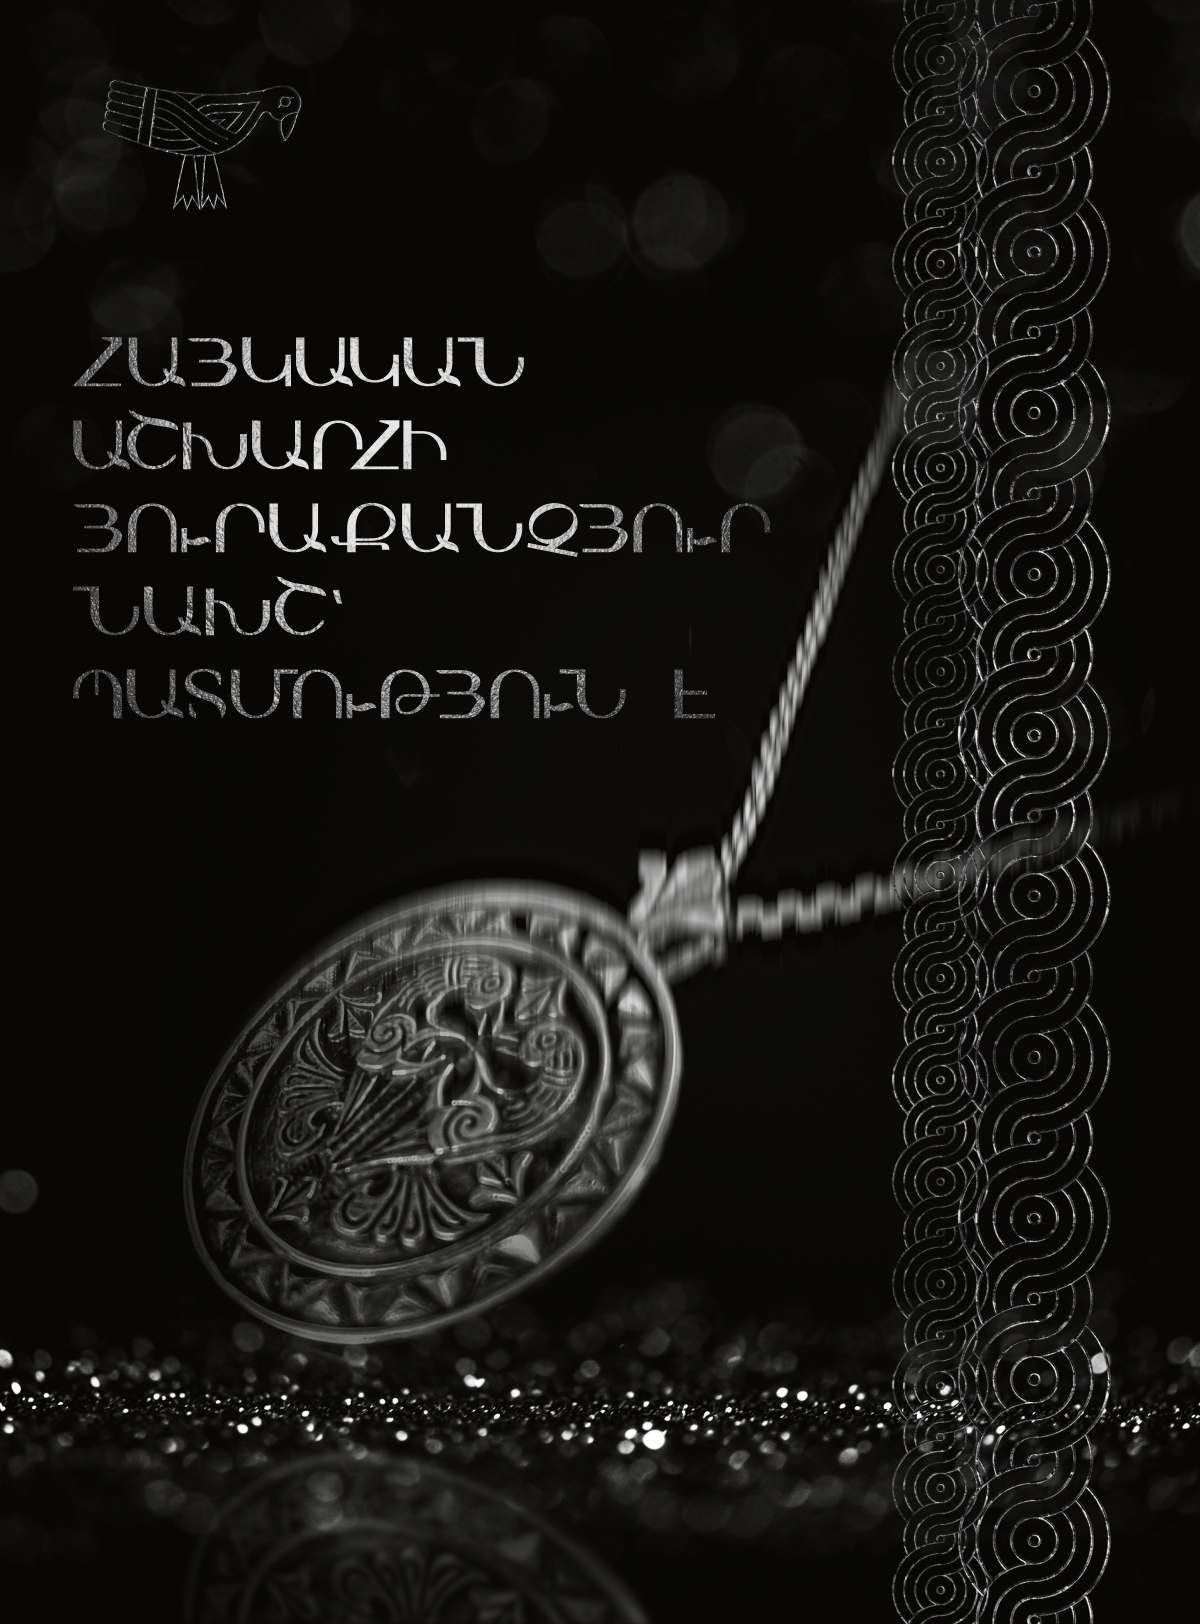
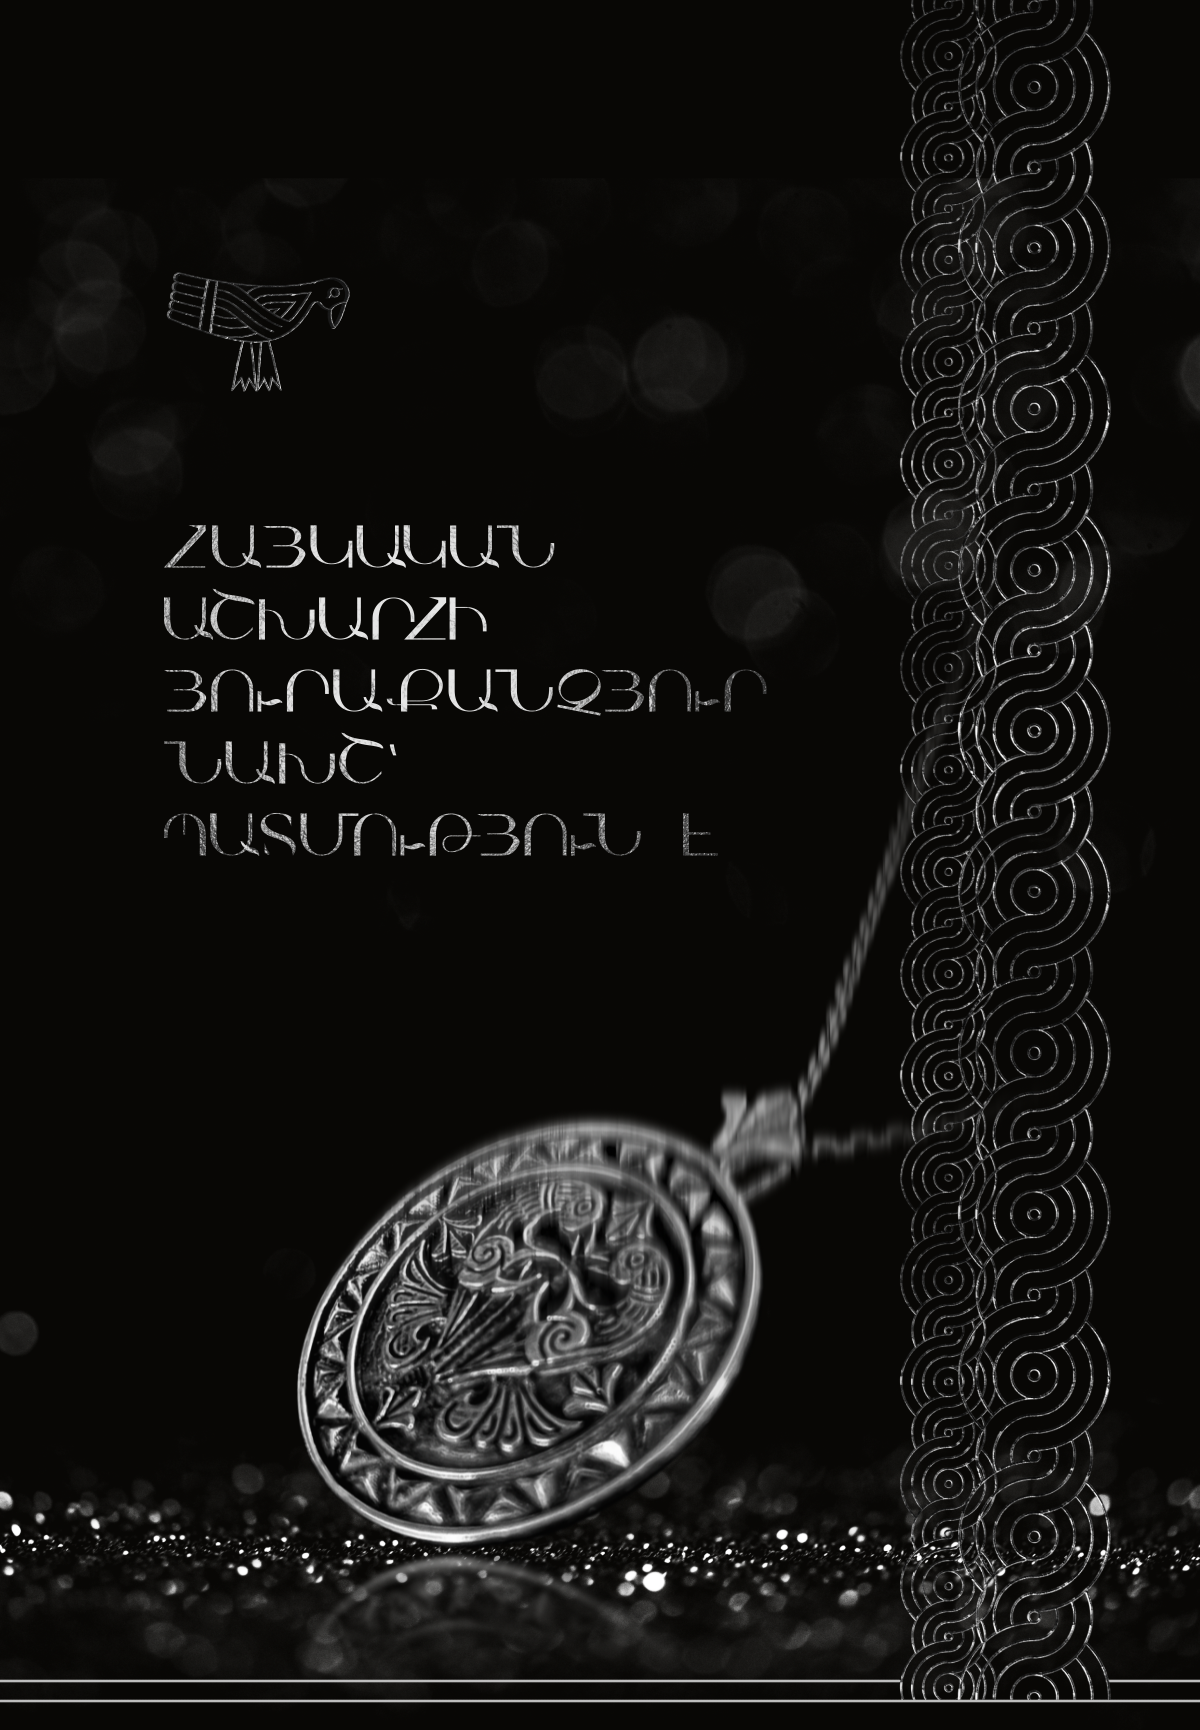
Use supplied responsive home hero artwork

diff --git a/src/app/App.tsx b/src/app/App.tsx
@@ -92,6 +92,8 @@ const DRAKHT_ASSETS = {
   logoMobile: `${PUBLIC_BASE}drakht/logo-mobile.png`,
   heroWeb: `${PUBLIC_BASE}drakht/hero-web.png`,
   heroMobile: `${PUBLIC_BASE}drakht/hero-mobile.png`,
+  heroWebLight: `${PUBLIC_BASE}drakht/hero-web-light.png`,
+  heroMobileLight: `${PUBLIC_BASE}drakht/hero-mobile-light.png`,
   birdsLineWeb: `${PUBLIC_BASE}drakht/birds-line-web.png`,
   birdsLineMobile: `${PUBLIC_BASE}drakht/birds-line-mobile.png`,
   bird: `${PUBLIC_BASE}drakht/bird.png`,
@@ -638,42 +640,50 @@ function Nav({
 
 // ─── HERO SECTION ─────────────────────────────────────────────────────────────
 
-function HeroSection({ onNavigate }: { onNavigate: (p: Page) => void }) {
+function HeroSection({ onNavigate, themeMode }: { onNavigate: (p: Page) => void; themeMode: ThemeMode }) {
   const [loaded, setLoaded] = useState(false);
   useEffect(() => { const t = setTimeout(() => setLoaded(true), 100); return () => clearTimeout(t); }, []);
 
   return (
-    <section className="relative h-[calc(100svh-54px)] min-h-[540px] w-full overflow-hidden border-b border-white/15 bg-black md:h-auto md:min-h-[calc(100vh-54px)]">
-      <picture className="absolute inset-0">
+    <section className={`relative h-[calc(100svh-54px)] min-h-[540px] w-full overflow-hidden border-b border-border md:h-auto md:min-h-[calc(100vh-54px)] ${themeMode === "dark" ? "bg-black" : "bg-white"}`}>
+      <picture className={`absolute inset-0 ${themeMode === "dark" ? "block" : "hidden"}`}>
         <source media="(max-width: 767px)" srcSet={DRAKHT_ASSETS.heroMobile} />
         <img
           src={DRAKHT_ASSETS.heroWeb}
-          alt="Դրախտը՝ հայկական զարդատեսակների գլխավոր էջ"
+          alt="Դրախտը՝ հայկական զարդատեսակների գլխավոր էջ, մուգ տարբերակ"
           className="h-full w-full object-cover object-center opacity-95"
         />
       </picture>
+      <picture className={`absolute inset-0 ${themeMode === "light" ? "block" : "hidden"}`}>
+        <source media="(max-width: 767px)" srcSet={DRAKHT_ASSETS.heroMobileLight} />
+        <img
+          src={DRAKHT_ASSETS.heroWebLight}
+          alt="Դրախտը՝ հայկական զարդատեսակների գլխավոր էջ, բաց տարբերակ"
+          className="h-full w-full object-cover object-center"
+        />
+      </picture>
 
-      <div className="absolute inset-0 bg-[radial-gradient(circle_at_24%_32%,rgba(255,255,255,0.08),transparent_26%),linear-gradient(90deg,rgba(0,0,0,0.26),transparent_50%,rgba(0,0,0,0.18))]" />
+      {themeMode === "dark" && <div className="absolute inset-0 bg-[radial-gradient(circle_at_24%_32%,rgba(255,255,255,0.05),transparent_26%)]" />}
 
       {/* Actions are live HTML over the supplied Drakht hero artwork. */}
-      <div className="absolute left-[7.5%] bottom-[11%] z-10 md:bottom-[11.5%]">
+      <div className="absolute left-[19%] top-[54%] z-10 w-[52vw] max-w-[260px] md:left-[10.5%] md:top-auto md:bottom-[20%] md:w-auto md:max-w-none">
         <div
           className="transition-all duration-1000"
           style={{ opacity: loaded ? 1 : 0, transform: loaded ? "translateY(0)" : "translateY(24px)" }}
         >
-          <div className="flex flex-wrap gap-2.5 md:gap-3">
+          <div className="flex flex-col gap-2.5 md:flex-row md:flex-wrap md:gap-3">
             <a
               href={pageHref("shop")}
               onClick={(event) => handleInternalLink(event, () => onNavigate("shop"))}
-              className="group border border-white bg-white px-4 py-2.5 font-heading text-[11px] tracking-[0.04em] text-black transition-all hover:bg-white/85 md:px-5 md:py-3"
+              className={`group px-3 py-2.5 text-center font-heading text-[10px] tracking-[0.02em] transition-all md:px-5 md:py-3 md:text-[11px] ${themeMode === "dark" ? "border border-white bg-white text-black hover:bg-white/85" : "border border-black bg-black text-white hover:bg-black/80"}`}
             >
               Տեսականի / Հավաքածուներ
-              <ArrowRight size={13} className="ml-2 inline-block align-[-2px] transition-transform group-hover:translate-x-1" />
+              <ArrowRight size={13} className="ml-2 hidden align-[-2px] transition-transform group-hover:translate-x-1 md:inline-block" />
             </a>
             <a
               href={pageHref("custom")}
               onClick={(event) => handleInternalLink(event, () => onNavigate("custom"))}
-              className="border border-white/35 bg-black/25 px-4 py-2.5 font-heading text-[11px] tracking-[0.04em] text-white transition-all hover:border-white hover:bg-white hover:text-black md:px-5 md:py-3"
+              className={`border px-3 py-2.5 text-center font-heading text-[10px] tracking-[0.02em] transition-all md:px-5 md:py-3 md:text-[11px] ${themeMode === "dark" ? "border-white/35 bg-black/25 text-white hover:border-white hover:bg-white hover:text-black" : "border-black/25 bg-white/25 text-black hover:border-black hover:bg-black hover:text-white"}`}
             >
               Անհատական պատվերներ
             </a>
@@ -1262,7 +1272,7 @@ function Footer({ onNavigate, shopInfo }: { onNavigate: (p: Page) => void; shopI
 // ─── HOME PAGE ────────────────────────────────────────────────────────────────
 
 function HomePage({
-  onNavigate, onViewCategory, onViewCollection, products, collections, isLoading, catalogMessage, onRetry,
+  onNavigate, onViewCategory, onViewCollection, products, collections, isLoading, catalogMessage, onRetry, themeMode,
 }: {
   onNavigate: (p: Page) => void;
   onViewCategory: (category: string) => void;
@@ -1272,10 +1282,11 @@ function HomePage({
   isLoading: boolean;
   catalogMessage: string;
   onRetry: () => void;
+  themeMode: ThemeMode;
 }) {
   return (
     <>
-      <HeroSection onNavigate={onNavigate} />
+      <HeroSection onNavigate={onNavigate} themeMode={themeMode} />
       <CollectionsPreview onNavigate={onNavigate} onViewCollection={onViewCollection} collections={collections} />
       {isLoading && (
         <div className="px-6 md:px-12 py-4 border-y border-border bg-secondary/20 text-center">
@@ -3338,6 +3349,7 @@ export default function App() {
             isLoading={catalogLoading}
             catalogMessage={catalogMessage}
             onRetry={() => setCatalogReloadKey((value) => value + 1)}
+            themeMode={themeMode}
           />
         )}
         {page === "shop" && (
